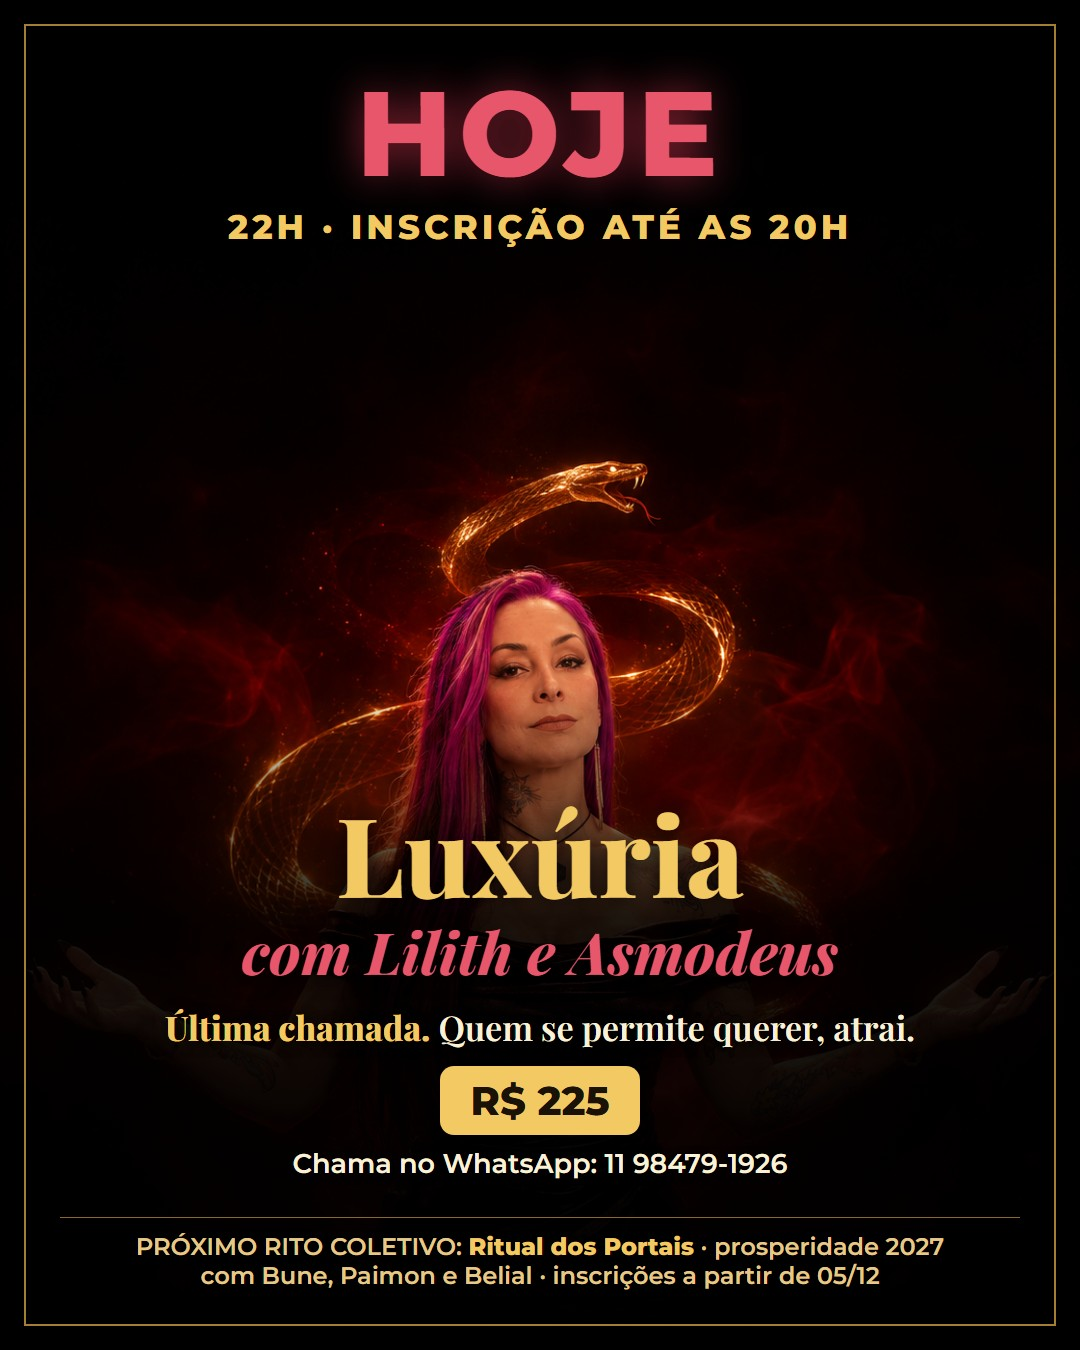
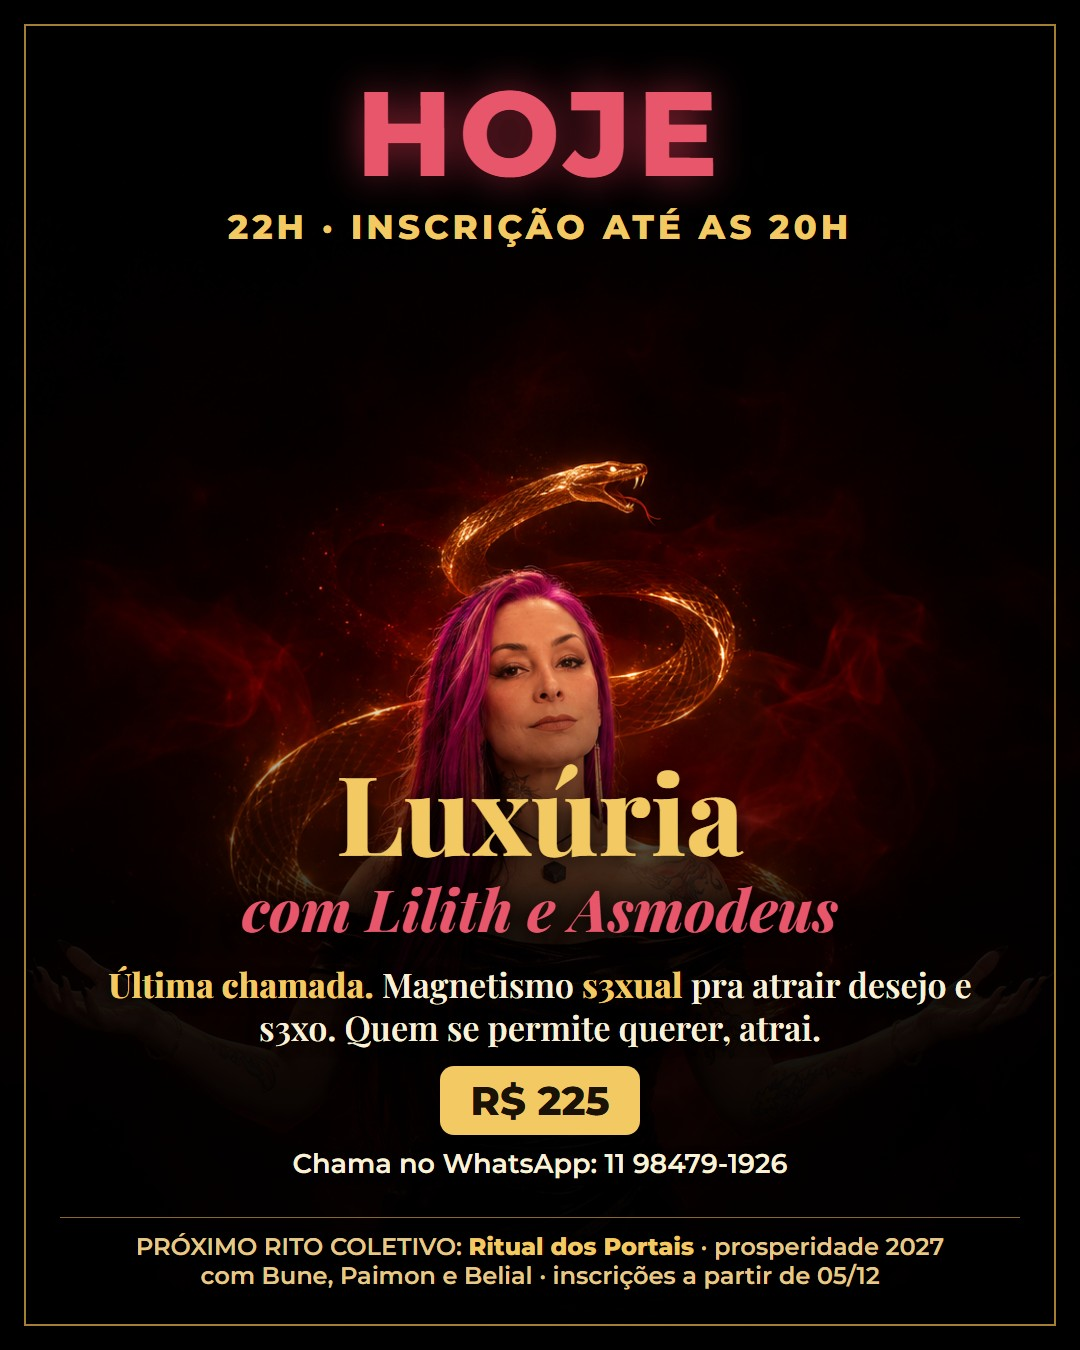
Luxuria 26-28/11: magnetismo s3xual (texto codificado nas artes)

Changed region(s): [[0.0917, 0.56, 0.9167, 0.7778]]

diff --git a/artes-black-november/luxuria/story26.html b/artes-black-november/luxuria/story26.html
@@ -1,0 +1,15 @@
+<!doctype html><html><head><meta charset="utf-8"><link href="https://fonts.googleapis.com/css2?family=Playfair+Display:ital,wght@0,600;0,800;1,500;1,800&family=Montserrat:wght@600;800&display=swap" rel="stylesheet"><style>
+*{margin:0;box-sizing:border-box}
+body{width:1080px;height:1920px;background:#000 url(fotos/l5.png) center 30%/cover no-repeat;position:relative;overflow:hidden;font-family:'Playfair Display',Georgia,serif;color:#fbf1d8}
+.g{position:absolute;inset:0;background:linear-gradient(180deg,rgba(0,0,0,0) 35%,rgba(0,0,0,.85) 62%,#000 100%)}
+.frame{position:absolute;inset:24px;border:2px solid #d9a93f;opacity:.75}
+.t{font-weight:800;line-height:.95;color:#f3c963;text-shadow:0 4px 24px #000}
+.gr{font-style:italic;font-weight:800;color:#e8566c;text-shadow:0 3px 20px #000}
+.d{line-height:1.25;text-shadow:0 2px 14px #000}.d b{color:#f3c963}
+.price{display:inline-block;font:800 40px Montserrat;color:#1a1207;background:#f3c963;padding:10px 30px;border-radius:14px}
+.wa{font:600 27px Montserrat;text-shadow:0 2px 10px #000}
+.next{position:absolute;left:60px;right:60px;bottom:150px;border-top:1px solid #8a6a2a;padding-top:14px;font:600 24px Montserrat;color:#e6c98a;text-align:center;text-shadow:0 2px 10px #000}.next b{color:#f3c963}
+.cnt{font-family:Montserrat;font-weight:800;color:#fff;background:#c8324a;letter-spacing:2px}
+:root{--b:290px;--t:300px;--c:320px}.badge{position:absolute;top:60px;right:60px;width:210px;height:210px;border-radius:50%;background:#c8324a;color:#fff;text-align:center;font-family:Montserrat;font-weight:800;display:flex;flex-direction:column;justify-content:center;box-shadow:0 0 40px rgba(200,50,74,.6)}.badge .n{font-size:96px;line-height:.9}.badge .s{font-size:24px;letter-spacing:2px}.blk{position:absolute;left:0;right:0;bottom:var(--b);text-align:center;padding:0 70px}
+</style></head><body><div class="g"></div><div class="frame"></div><div class="badge"><div class="s">FALTAM</div><div class="n">2</div><div class="s">DIAS</div></div><div class="blk"><div class="t" style="font-size:110px">Luxúria</div><div class="gr" style="font-size:54px;margin-top:6px">com Lilith e Asmodeus</div><div class="d" style="font-size:34px;margin-top:16px">Faz quanto tempo que ninguém <b>te deseja de verdade</b>? Magnetismo <b>s3xual</b> pra atrair desejo e s3xo. <b>Sábado 28/11, 22h, à distância.</b></div><div style="margin-top:18px"><div class="price">R$ 225</div><div class="wa" style="margin-top:12px">Chama no WhatsApp: 11 98479-1926</div></div></div>
+<div class="next">PRÓXIMO RITO COLETIVO: <b>Ritual dos Portais</b> · prosperidade 2027<br>com Bune, Paimon e Belial · inscrições a partir de 05/12</div></body></html>

diff --git a/artes-black-november/luxuria/feed26.html b/artes-black-november/luxuria/feed26.html
@@ -1,0 +1,15 @@
+<!doctype html><html><head><meta charset="utf-8"><link href="https://fonts.googleapis.com/css2?family=Playfair+Display:ital,wght@0,600;0,800;1,500;1,800&family=Montserrat:wght@600;800&display=swap" rel="stylesheet"><style>
+*{margin:0;box-sizing:border-box}
+body{width:1080px;height:1350px;background:#000 url(fotos/l5.png) center 30%/cover no-repeat;position:relative;overflow:hidden;font-family:'Playfair Display',Georgia,serif;color:#fbf1d8}
+.g{position:absolute;inset:0;background:linear-gradient(180deg,rgba(0,0,0,0) 35%,rgba(0,0,0,.85) 62%,#000 100%)}
+.frame{position:absolute;inset:24px;border:2px solid #d9a93f;opacity:.75}
+.t{font-weight:800;line-height:.95;color:#f3c963;text-shadow:0 4px 24px #000}
+.gr{font-style:italic;font-weight:800;color:#e8566c;text-shadow:0 3px 20px #000}
+.d{line-height:1.25;text-shadow:0 2px 14px #000}.d b{color:#f3c963}
+.price{display:inline-block;font:800 40px Montserrat;color:#1a1207;background:#f3c963;padding:10px 30px;border-radius:14px}
+.wa{font:600 27px Montserrat;text-shadow:0 2px 10px #000}
+.next{position:absolute;left:60px;right:60px;bottom:60px;border-top:1px solid #8a6a2a;padding-top:14px;font:600 24px Montserrat;color:#e6c98a;text-align:center;text-shadow:0 2px 10px #000}.next b{color:#f3c963}
+.cnt{font-family:Montserrat;font-weight:800;color:#fff;background:#c8324a;letter-spacing:2px}
+:root{--b:170px;--t:120px;--c:190px}.badge{position:absolute;top:60px;right:60px;width:210px;height:210px;border-radius:50%;background:#c8324a;color:#fff;text-align:center;font-family:Montserrat;font-weight:800;display:flex;flex-direction:column;justify-content:center;box-shadow:0 0 40px rgba(200,50,74,.6)}.badge .n{font-size:96px;line-height:.9}.badge .s{font-size:24px;letter-spacing:2px}.blk{position:absolute;left:0;right:0;bottom:var(--b);text-align:center;padding:0 70px}
+</style></head><body><div class="g"></div><div class="frame"></div><div class="badge"><div class="s">FALTAM</div><div class="n">2</div><div class="s">DIAS</div></div><div class="blk"><div class="t" style="font-size:110px">Luxúria</div><div class="gr" style="font-size:54px;margin-top:6px">com Lilith e Asmodeus</div><div class="d" style="font-size:34px;margin-top:16px">Faz quanto tempo que ninguém <b>te deseja de verdade</b>? Magnetismo <b>s3xual</b> pra atrair desejo e s3xo. <b>Sábado 28/11, 22h, à distância.</b></div><div style="margin-top:18px"><div class="price">R$ 225</div><div class="wa" style="margin-top:12px">Chama no WhatsApp: 11 98479-1926</div></div></div>
+<div class="next">PRÓXIMO RITO COLETIVO: <b>Ritual dos Portais</b> · prosperidade 2027<br>com Bune, Paimon e Belial · inscrições a partir de 05/12</div></body></html>

diff --git a/artes-black-november/luxuria/story28.html b/artes-black-november/luxuria/story28.html
@@ -1,0 +1,15 @@
+<!doctype html><html><head><meta charset="utf-8"><link href="https://fonts.googleapis.com/css2?family=Playfair+Display:ital,wght@0,600;0,800;1,500;1,800&family=Montserrat:wght@600;800&display=swap" rel="stylesheet"><style>
+*{margin:0;box-sizing:border-box}
+body{width:1080px;height:1920px;background:#000 url(fotos/l7.png) center 30%/cover no-repeat;position:relative;overflow:hidden;font-family:'Playfair Display',Georgia,serif;color:#fbf1d8}
+.g{position:absolute;inset:0;background:linear-gradient(180deg,rgba(0,0,0,.85) 0,rgba(0,0,0,0) 22%,rgba(0,0,0,0) 50%,rgba(0,0,0,.88) 68%,#000 100%)}
+.frame{position:absolute;inset:24px;border:2px solid #d9a93f;opacity:.75}
+.t{font-weight:800;line-height:.95;color:#f3c963;text-shadow:0 4px 24px #000}
+.gr{font-style:italic;font-weight:800;color:#e8566c;text-shadow:0 3px 20px #000}
+.d{line-height:1.25;text-shadow:0 2px 14px #000}.d b{color:#f3c963}
+.price{display:inline-block;font:800 40px Montserrat;color:#1a1207;background:#f3c963;padding:10px 30px;border-radius:14px}
+.wa{font:600 27px Montserrat;text-shadow:0 2px 10px #000}
+.next{position:absolute;left:60px;right:60px;bottom:150px;border-top:1px solid #8a6a2a;padding-top:14px;font:600 24px Montserrat;color:#e6c98a;text-align:center;text-shadow:0 2px 10px #000}.next b{color:#f3c963}
+.cnt{font-family:Montserrat;font-weight:800;color:#fff;background:#c8324a;letter-spacing:2px}
+:root{--b:290px;--t:300px;--c:320px}.top{position:absolute;top:60px;left:0;right:0;text-align:center}.top .h{font:800 120px Montserrat;color:#e8566c;letter-spacing:6px;text-shadow:0 0 40px rgba(200,50,74,.7)}.top .s{font:800 34px Montserrat;color:#f3c963;letter-spacing:4px}.blk{position:absolute;left:0;right:0;bottom:var(--b);text-align:center;padding:0 70px}
+</style></head><body><div class="g"></div><div class="frame"></div><div class="top"><div class="h">HOJE</div><div class="s">22H · INSCRIÇÃO ATÉ AS 20H</div></div><div class="blk"><div class="t" style="font-size:110px">Luxúria</div><div class="gr" style="font-size:58px;margin-top:6px">com Lilith e Asmodeus</div><div class="d" style="font-size:34px;margin-top:16px"><b>Última chamada.</b> Magnetismo <b>s3xual</b> pra atrair desejo e s3xo. Quem se permite querer, atrai.</div><div style="margin-top:18px"><div class="price">R$ 225</div><div class="wa" style="margin-top:12px">Chama no WhatsApp: 11 98479-1926</div></div></div>
+<div class="next">PRÓXIMO RITO COLETIVO: <b>Ritual dos Portais</b> · prosperidade 2027<br>com Bune, Paimon e Belial · inscrições a partir de 05/12</div></body></html>

diff --git a/artes-black-november/luxuria/feed28.html b/artes-black-november/luxuria/feed28.html
@@ -1,0 +1,15 @@
+<!doctype html><html><head><meta charset="utf-8"><link href="https://fonts.googleapis.com/css2?family=Playfair+Display:ital,wght@0,600;0,800;1,500;1,800&family=Montserrat:wght@600;800&display=swap" rel="stylesheet"><style>
+*{margin:0;box-sizing:border-box}
+body{width:1080px;height:1350px;background:#000 url(fotos/l7.png) center 30%/cover no-repeat;position:relative;overflow:hidden;font-family:'Playfair Display',Georgia,serif;color:#fbf1d8}
+.g{position:absolute;inset:0;background:linear-gradient(180deg,rgba(0,0,0,.85) 0,rgba(0,0,0,0) 22%,rgba(0,0,0,0) 50%,rgba(0,0,0,.88) 68%,#000 100%)}
+.frame{position:absolute;inset:24px;border:2px solid #d9a93f;opacity:.75}
+.t{font-weight:800;line-height:.95;color:#f3c963;text-shadow:0 4px 24px #000}
+.gr{font-style:italic;font-weight:800;color:#e8566c;text-shadow:0 3px 20px #000}
+.d{line-height:1.25;text-shadow:0 2px 14px #000}.d b{color:#f3c963}
+.price{display:inline-block;font:800 40px Montserrat;color:#1a1207;background:#f3c963;padding:10px 30px;border-radius:14px}
+.wa{font:600 27px Montserrat;text-shadow:0 2px 10px #000}
+.next{position:absolute;left:60px;right:60px;bottom:60px;border-top:1px solid #8a6a2a;padding-top:14px;font:600 24px Montserrat;color:#e6c98a;text-align:center;text-shadow:0 2px 10px #000}.next b{color:#f3c963}
+.cnt{font-family:Montserrat;font-weight:800;color:#fff;background:#c8324a;letter-spacing:2px}
+:root{--b:170px;--t:120px;--c:190px}.top{position:absolute;top:60px;left:0;right:0;text-align:center}.top .h{font:800 120px Montserrat;color:#e8566c;letter-spacing:6px;text-shadow:0 0 40px rgba(200,50,74,.7)}.top .s{font:800 34px Montserrat;color:#f3c963;letter-spacing:4px}.blk{position:absolute;left:0;right:0;bottom:var(--b);text-align:center;padding:0 70px}
+</style></head><body><div class="g"></div><div class="frame"></div><div class="top"><div class="h">HOJE</div><div class="s">22H · INSCRIÇÃO ATÉ AS 20H</div></div><div class="blk"><div class="t" style="font-size:110px">Luxúria</div><div class="gr" style="font-size:58px;margin-top:6px">com Lilith e Asmodeus</div><div class="d" style="font-size:34px;margin-top:16px"><b>Última chamada.</b> Magnetismo <b>s3xual</b> pra atrair desejo e s3xo. Quem se permite querer, atrai.</div><div style="margin-top:18px"><div class="price">R$ 225</div><div class="wa" style="margin-top:12px">Chama no WhatsApp: 11 98479-1926</div></div></div>
+<div class="next">PRÓXIMO RITO COLETIVO: <b>Ritual dos Portais</b> · prosperidade 2027<br>com Bune, Paimon e Belial · inscrições a partir de 05/12</div></body></html>

diff --git a/artes-black-november/luxuria/story27.html b/artes-black-november/luxuria/story27.html
@@ -1,0 +1,15 @@
+<!doctype html><html><head><meta charset="utf-8"><link href="https://fonts.googleapis.com/css2?family=Playfair+Display:ital,wght@0,600;0,800;1,500;1,800&family=Montserrat:wght@600;800&display=swap" rel="stylesheet"><style>
+*{margin:0;box-sizing:border-box}
+body{width:1080px;height:1920px;background:#000 url(fotos/l6.png) 30% top/cover no-repeat;position:relative;overflow:hidden;font-family:'Playfair Display',Georgia,serif;color:#fbf1d8}
+.g{position:absolute;inset:0;background:linear-gradient(270deg,rgba(0,0,0,.93) 0,rgba(0,0,0,.7) 42%,rgba(0,0,0,0) 62%),linear-gradient(180deg,rgba(0,0,0,0) 70%,#000 100%)}
+.frame{position:absolute;inset:24px;border:2px solid #d9a93f;opacity:.75}
+.t{font-weight:800;line-height:.95;color:#f3c963;text-shadow:0 4px 24px #000}
+.gr{font-style:italic;font-weight:800;color:#e8566c;text-shadow:0 3px 20px #000}
+.d{line-height:1.25;text-shadow:0 2px 14px #000}.d b{color:#f3c963}
+.price{display:inline-block;font:800 40px Montserrat;color:#1a1207;background:#f3c963;padding:10px 30px;border-radius:14px}
+.wa{font:600 27px Montserrat;text-shadow:0 2px 10px #000}
+.next{position:absolute;left:60px;right:60px;bottom:150px;border-top:1px solid #8a6a2a;padding-top:14px;font:600 24px Montserrat;color:#e6c98a;text-align:center;text-shadow:0 2px 10px #000}.next b{color:#f3c963}
+.cnt{font-family:Montserrat;font-weight:800;color:#fff;background:#c8324a;letter-spacing:2px}
+:root{--b:290px;--t:300px;--c:320px}.blk{position:absolute;right:70px;width:540px;top:var(--t);text-align:right}.cnt{display:inline-block;font-size:30px;padding:12px 26px;border-radius:40px}
+</style></head><body><div class="g"></div><div class="frame"></div><div class="blk"><span class="cnt">É AMANHÃ · 22H</span><div class="t" style="font-size:96px;margin-top:26px">Luxúria</div><div class="gr" style="font-size:56px;margin-top:6px">com Lilith<br>e Asmodeus</div><div class="d" style="font-size:33px;margin-top:16px">Primeiro solta, depois brilha, <b>depois atrai</b>. Magnetismo <b>s3xual</b> pra atrair desejo e s3xo. É amanhã.</div><div style="margin-top:18px"><div class="price">R$ 225</div><div class="wa" style="margin-top:12px">Chama no WhatsApp: 11 98479-1926</div></div></div>
+<div class="next">PRÓXIMO RITO COLETIVO: <b>Ritual dos Portais</b> · prosperidade 2027<br>com Bune, Paimon e Belial · inscrições a partir de 05/12</div></body></html>

diff --git a/artes-black-november/luxuria/feed27.html b/artes-black-november/luxuria/feed27.html
@@ -1,0 +1,15 @@
+<!doctype html><html><head><meta charset="utf-8"><link href="https://fonts.googleapis.com/css2?family=Playfair+Display:ital,wght@0,600;0,800;1,500;1,800&family=Montserrat:wght@600;800&display=swap" rel="stylesheet"><style>
+*{margin:0;box-sizing:border-box}
+body{width:1080px;height:1350px;background:#000 url(fotos/l6.png) 30% top/cover no-repeat;position:relative;overflow:hidden;font-family:'Playfair Display',Georgia,serif;color:#fbf1d8}
+.g{position:absolute;inset:0;background:linear-gradient(270deg,rgba(0,0,0,.93) 0,rgba(0,0,0,.7) 42%,rgba(0,0,0,0) 62%),linear-gradient(180deg,rgba(0,0,0,0) 70%,#000 100%)}
+.frame{position:absolute;inset:24px;border:2px solid #d9a93f;opacity:.75}
+.t{font-weight:800;line-height:.95;color:#f3c963;text-shadow:0 4px 24px #000}
+.gr{font-style:italic;font-weight:800;color:#e8566c;text-shadow:0 3px 20px #000}
+.d{line-height:1.25;text-shadow:0 2px 14px #000}.d b{color:#f3c963}
+.price{display:inline-block;font:800 40px Montserrat;color:#1a1207;background:#f3c963;padding:10px 30px;border-radius:14px}
+.wa{font:600 27px Montserrat;text-shadow:0 2px 10px #000}
+.next{position:absolute;left:60px;right:60px;bottom:60px;border-top:1px solid #8a6a2a;padding-top:14px;font:600 24px Montserrat;color:#e6c98a;text-align:center;text-shadow:0 2px 10px #000}.next b{color:#f3c963}
+.cnt{font-family:Montserrat;font-weight:800;color:#fff;background:#c8324a;letter-spacing:2px}
+:root{--b:170px;--t:120px;--c:190px}.blk{position:absolute;right:70px;width:540px;top:var(--t);text-align:right}.cnt{display:inline-block;font-size:30px;padding:12px 26px;border-radius:40px}
+</style></head><body><div class="g"></div><div class="frame"></div><div class="blk"><span class="cnt">É AMANHÃ · 22H</span><div class="t" style="font-size:96px;margin-top:26px">Luxúria</div><div class="gr" style="font-size:56px;margin-top:6px">com Lilith<br>e Asmodeus</div><div class="d" style="font-size:33px;margin-top:16px">Primeiro solta, depois brilha, <b>depois atrai</b>. Magnetismo <b>s3xual</b> pra atrair desejo e s3xo. É amanhã.</div><div style="margin-top:18px"><div class="price">R$ 225</div><div class="wa" style="margin-top:12px">Chama no WhatsApp: 11 98479-1926</div></div></div>
+<div class="next">PRÓXIMO RITO COLETIVO: <b>Ritual dos Portais</b> · prosperidade 2027<br>com Bune, Paimon e Belial · inscrições a partir de 05/12</div></body></html>

diff --git a/artes-black-november/luxuria/build.py b/artes-black-november/luxuria/build.py
@@ -52,11 +52,11 @@ L = {
  '25': ('l4.png', '20% top', RIGHT, CSS_R + RIB,
    '<div class="cnt rib">FALTAM 3 DIAS</div><div class="blk"><div class="t" style="font-size:100px">Luxúria</div><div class="d" style="font-size:28px;margin-top:20px;font-family:Montserrat;font-weight:600;letter-spacing:3px">COM O REI DO DESEJO</div><div class="gr" style="font-size:96px;line-height:1">Asmodeus</div>' + d(33, 'O daemon da Goétia mais ligado à luxúria. Junto com <b>Lilith</b>, abre o seu magnetismo. ' + DATA) + pw() + '</div>'),
  '26': ('l5.png', 'center 30%', BOT, BADGE + CSS_BOT,
-   '<div class="badge"><div class="s">FALTAM</div><div class="n">2</div><div class="s">DIAS</div></div><div class="blk">' + T % 110 + GR % 54 + d(34, 'Não se sente <b>desejada há muito tempo</b>? Acha que atrair é coisa dos outros? <b>' + DATA + '</b>') + pw() + '</div>'),
+   '<div class="badge"><div class="s">FALTAM</div><div class="n">2</div><div class="s">DIAS</div></div><div class="blk">' + T % 110 + GR % 54 + d(34, 'Faz quanto tempo que ninguém <b>te deseja de verdade</b>? Magnetismo <b>s3xual</b> pra atrair desejo e s3xo. <b>' + DATA + '</b>') + pw() + '</div>'),
  '27': ('l6.png', '30% top', RIGHT, CSS_R + PILL,
-   '<div class="blk"><span class="cnt">É AMANHÃ · 22H</span><div class="t" style="font-size:96px;margin-top:26px">Luxúria</div><div class="gr" style="font-size:56px;margin-top:6px">com Lilith<br>e Asmodeus</div>' + d(33, 'Primeiro solta, depois brilha, <b>depois atrai</b>. O último ritual da sequência é amanhã.') + pw() + '</div>'),
+   '<div class="blk"><span class="cnt">É AMANHÃ · 22H</span><div class="t" style="font-size:96px;margin-top:26px">Luxúria</div><div class="gr" style="font-size:56px;margin-top:6px">com Lilith<br>e Asmodeus</div>' + d(33, 'Primeiro solta, depois brilha, <b>depois atrai</b>. Magnetismo <b>s3xual</b> pra atrair desejo e s3xo. É amanhã.') + pw() + '</div>'),
  '28': ('l7.png', 'center 30%', TB, HOJE + CSS_BOT,
-   '<div class="top"><div class="h">HOJE</div><div class="s">22H · INSCRIÇÃO ATÉ AS 20H</div></div><div class="blk">' + T % 110 + GR % 58 + d(34, '<b>Última chamada.</b> Quem se permite querer, atrai.') + pw() + '</div>'),
+   '<div class="top"><div class="h">HOJE</div><div class="s">22H · INSCRIÇÃO ATÉ AS 20H</div></div><div class="blk">' + T % 110 + GR % 58 + d(34, '<b>Última chamada.</b> Magnetismo <b>s3xual</b> pra atrair desejo e s3xo. Quem se permite querer, atrai.') + pw() + '</div>'),
 }
 SIZES = {'feed': (1080, 1350, dict(b='170px', t='120px', c='190px'), 60),
          'story': (1080, 1920, dict(b='290px', t='300px', c='320px'), 150)}
